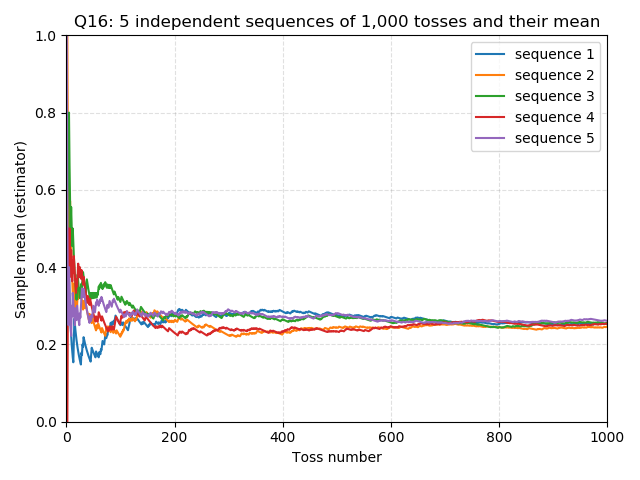
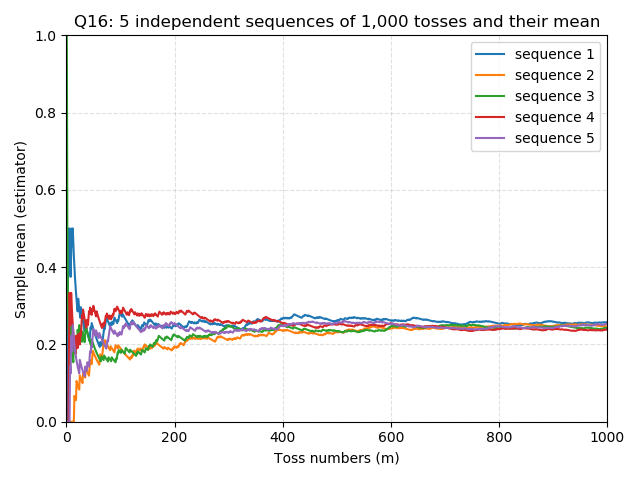
question 16 due

Changed region(s): [[0.0938, 0.2188, 0.9688, 0.875], [0.4375, 0.9375, 0.625, 0.9688]]

diff --git a/project_01/3d_gausian.py b/project_01/3d_gausian.py
@@ -1,13 +1,14 @@
+# --------------------
+# cs user: yoav
+# full name: Yoav Levy
+# id: 314963257
+# --------------------
+# ----- imports: -----
 import numpy as np
 import matplotlib.pyplot as plt
 from mpl_toolkits.mplot3d import Axes3D
 from scipy.linalg import qr
-from scipy.stats import special_ortho_group
-
-population = 50000
-mean = [0, 0, 0]
-cov = np.eye(3)
-x_y_z = np.random.multivariate_normal(mean, cov, population).T
+# ---------------------
 
 
 def get_orthogonal_matrix(dim):
@@ -51,22 +52,25 @@ def plot_2d(x_y, title):
     ax.set_title(title)
     fig.show()
 
+
 def estimator_function(data):
     """
-
-    :param data:
-    :return:
+    This function is the mean estimator function.
+    :param data: Coin tosses data.
+    :return: The mean of tosses numbers.
     """
     values = []
     for index in range(len(data)):
         values.append(np.mean(data[:index + 1]))
     return values
 
+
 def plot_q16(data):
     """
-
-    :param data:
-    :return:
+    This function plots the sample mean of a coin toss as a function of the number of tosses (m)
+    as requested in question number 16 (a).
+    :param data: 5d vector of vectors where the data of each batch is.
+    :return: nothing.
     """
     data1 = estimator_function(data[0])
     data2 = estimator_function(data[1])
@@ -74,12 +78,12 @@ def plot_q16(data):
     data4 = estimator_function(data[3])
     data5 = estimator_function(data[4])
     fig, ax = plt.subplots()  # Create a figure containing a single axes.
-    ax.plot(range(1, 1001), data1, label="sequence 1")  # Plot some data on the axes.
-    ax.plot(range(1, 1001), data2, label="sequence 2")  # Plot some data on the axes.
-    ax.plot(range(1, 1001), data3, label="sequence 3")
-    ax.plot(range(1, 1001), data4, label="sequence 4")
-    ax.plot(range(1, 1001), data5, label="sequence 5")
-    ax.set_xlabel("Toss number")
+    ax.plot(range(1, 1001), data1, label="sequence 1")  # plot 1
+    ax.plot(range(1, 1001), data2, label="sequence 2")  # plot 2
+    ax.plot(range(1, 1001), data3, label="sequence 3")  # plot 3
+    ax.plot(range(1, 1001), data4, label="sequence 4")  # plot 4
+    ax.plot(range(1, 1001), data5, label="sequence 5")  # plot 5
+    ax.set_xlabel("Toss numbers (m)")
     ax.set_ylabel("Sample mean (estimator)")
     ax.legend()
     ax.set_ylim(ymin=0, ymax=1)
@@ -88,45 +92,128 @@ def plot_q16(data):
     ax.set_title("Q16: 5 independent sequences of 1,000 tosses and their mean")
     fig.show()
 
+def print_cov_mat(data):
+    cov_mat = np.matmul(np.array([[1/(population - 1), 0, 0], [0, 1/(population - 1), 0],[0, 0, 1/(population - 1)]]),
+                        np.matmul(data, np.transpose(data)))
+    print(cov_mat)
+
+def question_11(data):
+    """
+    Question 11, just plotting the given data.
+    :param data: data
+    :return: nothing
+    """
+    plot_3d(data, "Q11: Random points gen by the identity matrix as the cov matrix")  # Q11
+
+
+def question_12(data):
+    """
+    Question 12 linear transform the data, plot it, and show the newly created cov matrix.
+    :param data: data
+    :return: data after linear transformation
+    """
+    s_mat = np.array([[0.1, 0, 0], [0, 0.5, 0], [0, 0, 2]])
+    new_data = np.matmul(s_mat, data)
+    plot_3d(new_data, "Q12: Linear Transformed the prev data")
+    print("------ Covariance Matrix (QUESTION 12) ------")
+    print_cov_mat(new_data)
+    return new_data
+
+
+def question_13(data):
+    """
+    Question 13, create an orthogonal matrix, applay on the given data (already linear transformed)
+    plot it, and show the cov matrix. (also prints the transformed data)
+    :param data: Linear transformed data.
+    :return: nothing.
+    """
+    print("------ Randomly created orthogonal Matrix ------")
+    orthogonal_mat = get_orthogonal_matrix(3) # Randomly orthogonal matrix
+    print(orthogonal_mat)
+    new_data = np.matmul(orthogonal_mat, data)
+    plot_3d(new_data, "Q13: Applied orthogonal matrix")
+    print("------ Covariance Matrix (AFTER ORTHGONAL TRANSFORMATION) ------")
+    print_cov_mat(new_data)
+
+
+def question_14(data):
+    """
+    Question 14, projection of the data to the x,y plane.
+    and prints the result, and plotting the data.
+    :param data: data.
+    :return: nothing.
+    """
+    print("------ Projection of the data to the x, y axes (DATA) ------")
+    proj_mat = np.array([[1, 0, 0], [0, 1, 0], [0, 0, 0]])
+    two_d_data = np.matmul(proj_mat, data)
+    print(two_d_data[:-1])  # "Elisha Kipnis" said we should plot in 2d if we project to 2d plane
+    # (https://moodle2.cs.huji.ac.il/nu19/mod/forumng/discuss.php?d=7931)
+    plot_2d(two_d_data[:-1], "Q14: Projection of the data to the x, y axes.")
+
+
+def question_15(data):
+    """
+    Question 15, projection of the data which 0.1 > z > -0.4 to the x,y plane.
+    and prints the result, and plotting the data.
+    :param data:
+    :return: nothing.
+    """
+    print("------ Question 15 0.1 > z > -0.4 (DATA) ------")
+    x = []
+    y = []
+    bool_ind = (-0.4 < data[2]) & (data[2] < 0.1)
+    for index, item in enumerate(data[0]):
+        if bool_ind[index]:
+            x.append(item)
+            y.append(data[1][index])
+    data_01zm04 = np.array([x, y])
+    print(data_01zm04)
+    plot_2d(data_01zm04, "Q15: Projection to x, y after filtering dots 0.1 > z > -0.4")
+
+
+def question_16_a(data):
+    """
+    Question 16 a, plotting the experiment.
+    :param data: data of 5 batches of 1000 coin tosses.
+    :return: nothing.
+    """
+    plot_q16(data[:5])
+
+
+def question_16_b(data):
+    """
+    Question 16 b,
+    :param data:
+    :return:
+    """
+    pass
+
+
+def question_16_c(data):
+    """
+
+    :param data:
+    :return:
+    """
+    pass
+
 
 if __name__ == "__main__":
+    # ----------- settings -------------
+    population = 50000
+    mean = [0, 0, 0]
+    cov = np.eye(3)
+    data = np.random.multivariate_normal(mean, cov, population).T
     np.set_printoptions(suppress=True)
-    # data = x_y_z
-    # plot_3d(x_y_z, "Q11: Random points gen by the identity matrix as the cov matrix")  # Q11
-    # s_mat = np.array([[0.1, 0, 0], [0, 0.5, 0], [0, 0, 2]])
-    # new_data = np.matmul(s_mat, x_y_z)
-    # plot_3d(new_data, "Q12: Linear Transformed the prev data")
-    # cov_mat = np.matmul(np.array([[1/(population - 1), 0, 0], [0, 1/(population - 1), 0],[0, 0, 1/(population - 1)]]),
-    #                     np.matmul(new_data, np.transpose(new_data)))
-    # print("------ Covariance Matrix ------")
-    # print(cov_mat)
-    # print("------ Orthgonal Matrix ------")
-    # orthogonal_mat = special_ortho_group.rvs(3) # Randomly orthogonal matrix
-    # print(orthogonal_mat)
-    # new_data = np.matmul(orthogonal_mat, new_data)
-    # plot_3d(new_data, "Q13: Applied orthogonal matrix")
-    # print("------ Covariance Matrix (AFTER ORTHGONAL TRANSFORMATION) ------")
-    # cov_mat = np.matmul(np.array([[1/(population - 1), 0, 0], [0, 1/(population - 1), 0],[0, 0, 1/(population - 1)]]),
-    #                     np.matmul(new_data, np.transpose(new_data)))
-    # print(cov_mat)
-    # print("------ Projection of the data to the x, y axes ------")
-    # proj_mat = np.array([[1, 0, 0], [0, 1, 0], [0, 0, 0]])
-    # two_d_data = np.matmul(proj_mat, data)
-    # print(two_d_data[:-1]) # Elisha Kipnis said we should plot in 2d if we project to 2d plane (https://moodle2.cs.huji.ac.il/nu19/mod/forumng/discuss.php?d=7931)
-    # plot_2d(two_d_data[:-1], "Q14: Projection of the data to the x, y axes.")
-    # print("------ Question 15 0.1 > z > -0.4 ------")
-    # x = []
-    # y = []
-    # bool_ind = (-0.4 < data[2]) & (data[2] < 0.1)
-    # for index, item in enumerate(data[0]):
-    #     if bool_ind[index]:
-    #         x.append(item)
-    #         y.append(data[1][index])
-    #
-    # data_01zm04 = np.array([x, y])
-    # print(data_01zm04)
-    # plot_2d(data_01zm04, "Q15: Projection to x, y after filtering dots 0.1 > z > -0.4")
-    # ----------------------------------------------------------
+    # ----------------------------------
+    question_11(data)
+    transformed_data = question_12(data)
+    question_13(transformed_data)
+    question_14(data)
+    question_15(data)
+    # ----- Question no.16 -----
     data = np.random.binomial(1, 0.25, (5, 1000))
     epsilon = [0.5, 0.25, 0.1, 0.01, 0.001]
-    plot_q16(data[:5])
+    question_16_a(data)
+    question_16_b(data)
+    question_16_c(data)
